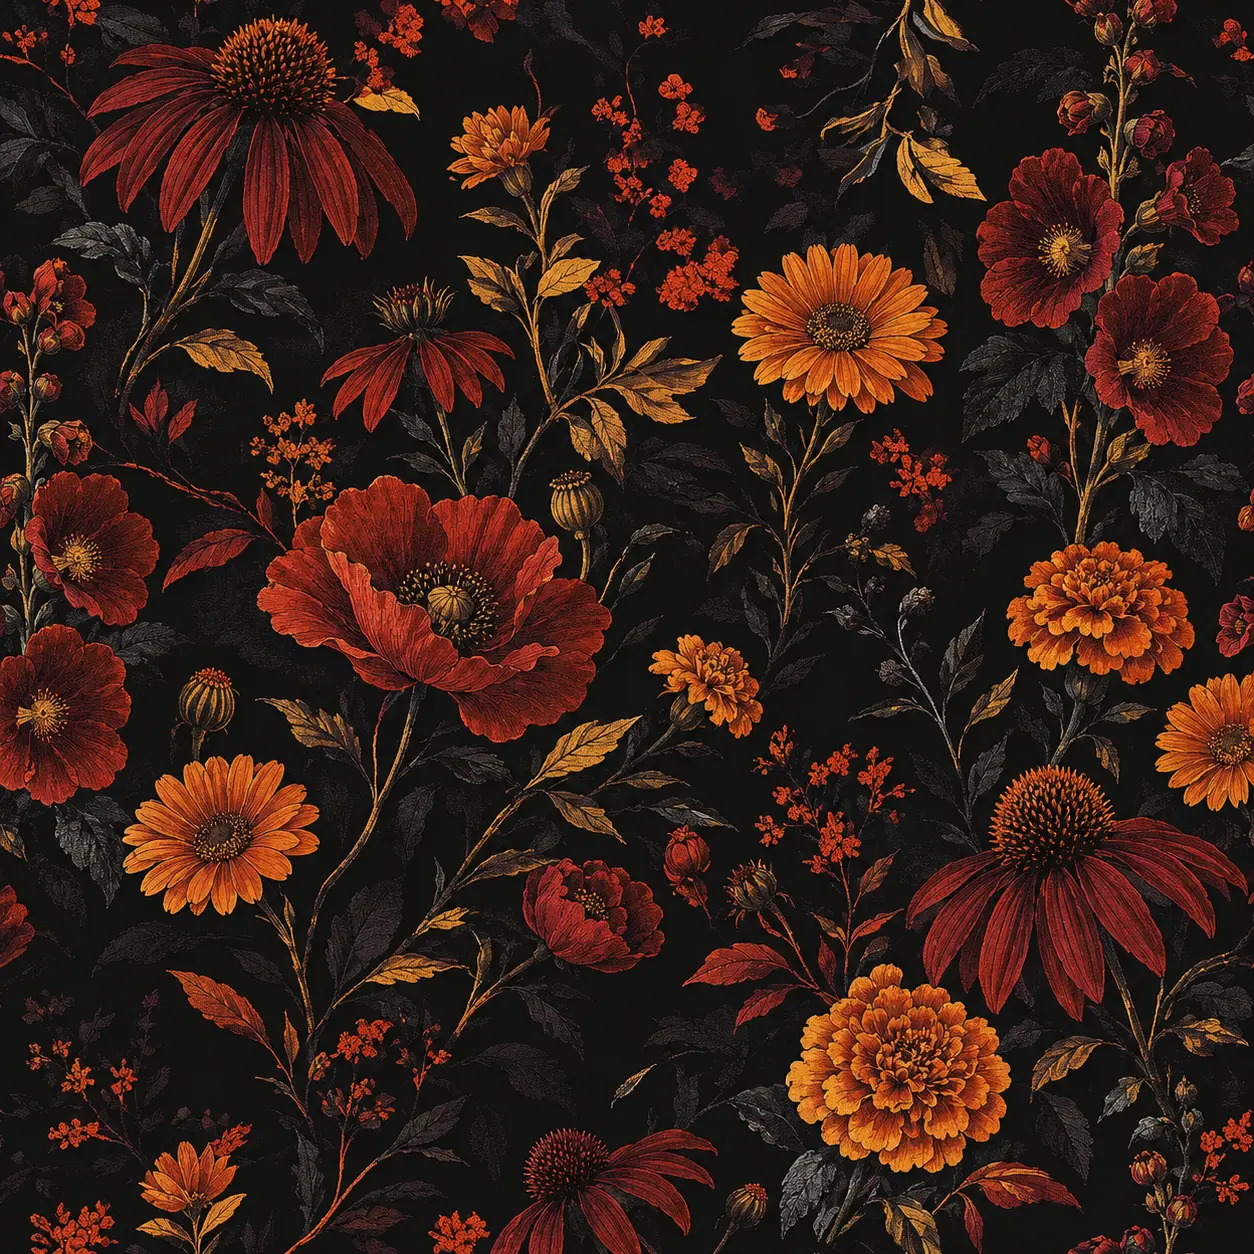
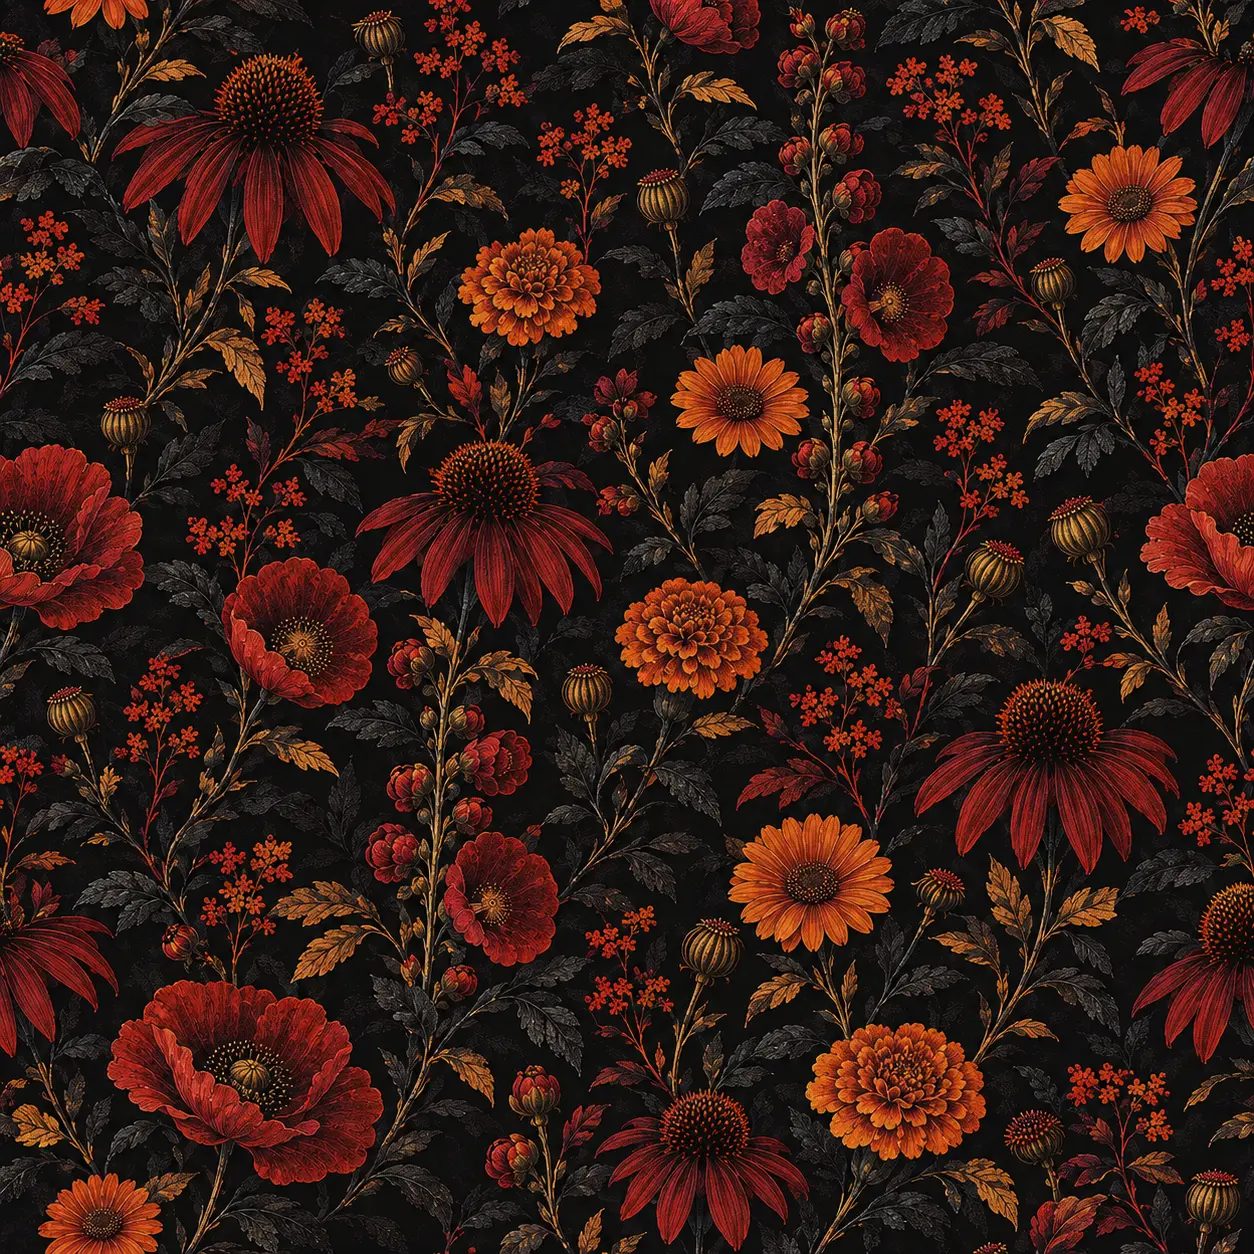
Use seamless floral wallpaper across Root & Brass

diff --git a/style.css b/style.css
@@ -139,7 +139,7 @@ a:focus-visible, button:focus-visible, input:focus-visible, select:focus-visible
     padding: 48px max(28px, calc((100vw - 1180px)/2));
     background:
         linear-gradient(90deg, rgba(10,9,9,.86) 0%, rgba(10,9,9,.64) 38%, rgba(10,9,9,.18) 72%, rgba(10,9,9,.1)),
-        url("/images/root-brass-floral-wallpaper.webp") center / cover no-repeat;
+        url("/images/root-brass-floral-wallpaper.webp") center / 660px repeat;
     color: var(--rb-paper);
     border-bottom: 2px solid var(--rb-brass);
 }
